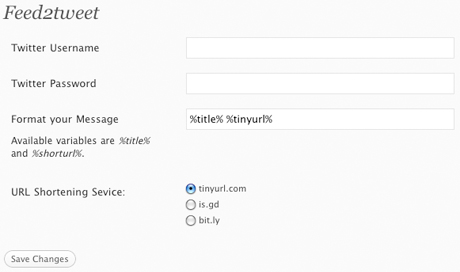
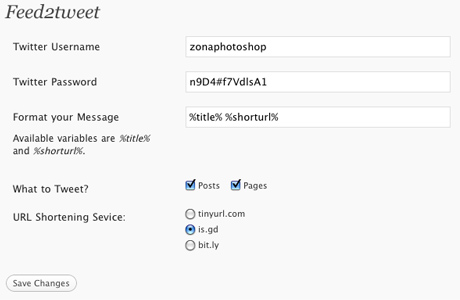
Added Aht to Tweet? plus an screenshot under WP 2.6
git-svn-id: https://plugins.svn.wordpress.org/feed2tweet/trunk@106409 b8457f37-d9ea-0310-8a92-e5e31aec5664

diff --git a/feed2tweet.php b/feed2tweet.php
@@ -35,6 +35,8 @@ function f2t_install() {
 	add_option("f2t_tpass", "");
 	add_option("f2t_message", "%title% %shorturl%");
 	add_option("f2t_urlshort", "tinyurl.com");
+	add_option("f2t_tweetposts", "yes");
+	add_option("f2t_tweetpages", "yes");
 	
 }
 
@@ -45,11 +47,22 @@ function f2t_update() {
 	if ( isset($_POST['f2t_update']) && @$_POST['f2t_update'] == "y" ) {
 		
 		if ( $_POST['f2t_tuser'] != "" || $_POST['f2t_tpass'] != "" ) {
+		  
+		  // What to Tweet? Checkboxes
+		  if($_POST['f2t_tweetposts'] == '') {
+		    $_POST['f2t_tweetposts'] = 'no';
+		  }
+		  if( $_POST['f2t_tweetpages'] == '' ) {
+		    $_POST['f2t_tweetpages'] = 'no';
+		  }
+		  
 			update_option("f2t_tuser", $_POST['f2t_tuser']);
 			update_option("f2t_tpass", $_POST['f2t_tpass']);
 			update_option("f2t_message", $_POST['f2t_message']);
 			update_option("f2t_urlshort", $_POST['f2t_urlshort']);
-			header('Location: '.get_bloginfo('wpurl').'/wp-admin/options-general.php?page=feed2tweet.php&updated=true' );
+			update_option("f2t_tweetposts", $_POST['f2t_tweetposts']);
+			update_option("f2t_tweetpages", $_POST['f2t_tweetpages']);
+			header('Location: '.get_bloginfo('wpurl').'/wp-admin/options-general.php?page=feed2tweet.php&updated=true');
 		} else {
 			header('Location: '.get_bloginfo('wpurl').'/wp-admin/options-general.php?page=feed2tweet.php');
 		}
@@ -61,9 +74,26 @@ function f2t_update() {
 // After a Post is published, post it to twitter
 add_action('transition_post_status', 'f2t_post', 1, 3);
 function f2t_post($new_status = NULL, $old_status = NULL, $post = NULL) {
+  
+  // Check post_type and if it's supposed to be Tweeted
+  $tweet_allowed = false;
+  switch ( $post->post_type ) {
+    case 'post':
+      if ( get_option("f2t_tweetposts") == 'yes' ) {
+        $tweet_allowed = true;
+      }
+    end;
+    case 'page':
+      if ( get_option("f2t_tweetpages") == 'yes' ) {
+        $tweet_allowed = true;
+      }
+    end;
+  }
 	
 	if ( $new_status == "publish" ) { // If post was published
 	if ( get_option('f2t_tuser') != '' && get_option('f2t_tpass') != '' ) { // If tuser AND tpass aren't empty
+	if ( $tweet_allowed ) {
+	
 		
 		$post_permalink = get_permalink($post->ID);
 		//$post_permalink = $post->guid;
@@ -158,7 +188,8 @@ function f2t_post($new_status = NULL, $old_status = NULL, $post = NULL) {
 		);
 		$twitter_context = stream_context_create($twitter_opts);
 		$twitter = @file_get_contents($twitter_url, false, $twitter_context);
-		
+	
+	} // Close if $tweet_allowed
 	} // Close if tuser AND tpass aren't empty
 	} // Close if post wasn't published
 	
@@ -183,6 +214,24 @@ function feed2tweet_options() {
       $urlshort_inputs .= '<label for="url'.$i.'"><input type="radio" name="f2t_urlshort" id="url'.$i.'" value="'.$url.'" /> '.$url.'</label><br />';
     }
     $i++;
+  }
+  
+  // What to Tweet? Checkboxes
+  if ( get_option("f2t_tweetposts") == 'yes' ) {
+    $posts_checked = ' checked="checked" ';
+  } elseif ( get_option("f2t_tweetposts") == '' ) {
+    update_option("f2t_tweetposts", "yes");
+    $posts_checked = ' checked="checked" ';
+  } else {
+    $posts_checked = '';
+  }
+  if ( get_option("f2t_tweetpages") == 'yes' ) {
+    $pages_checked = ' checked="checked" ';
+  } elseif ( get_option("f2t_tweetpages") == '' ) {
+    update_option("f2t_tweetpages", "yes");
+    $pages_checked = ' checked="checked" ';
+  } else {
+    $pages_checked = '';
   }
   
 	wp_nonce_field('update-options');
@@ -218,6 +267,16 @@ function feed2tweet_options() {
 					</tr>
 					<tr valign="top">
 						<th scope="row">
+							<label for="f2t_tweetonly">What to Tweet?</label>
+						</th>
+						<td>
+							<label for="f2t_tweetposts"><input type="checkbox" name="f2t_tweetposts" id="f2t_tweetposts" value="yes"'.$posts_checked.' /> Posts</label>
+					    &nbsp;&nbsp;
+							<label for="f2t_tweetpages"><input type="checkbox" name="f2t_tweetpages" id="f2t_tweetpages" value="yes"'.$pages_checked.' /> Pages</label>
+						</td>
+					</tr>
+					<tr valign="top">
+						<th scope="row">
 							<label for="f2t_urlshort">URL Shortening Sevice:</label>
 						</th>
 						<td>
@@ -243,6 +302,8 @@ function f2t_uninstall() {
 	delete_option("f2t_tpass");
 	delete_option("f2t_message");
 	delete_option("f2t_urlshort");
+	delete_option("f2t_tweetposts");
+	delete_option("f2t_tweetpages");
 	
 }
 
